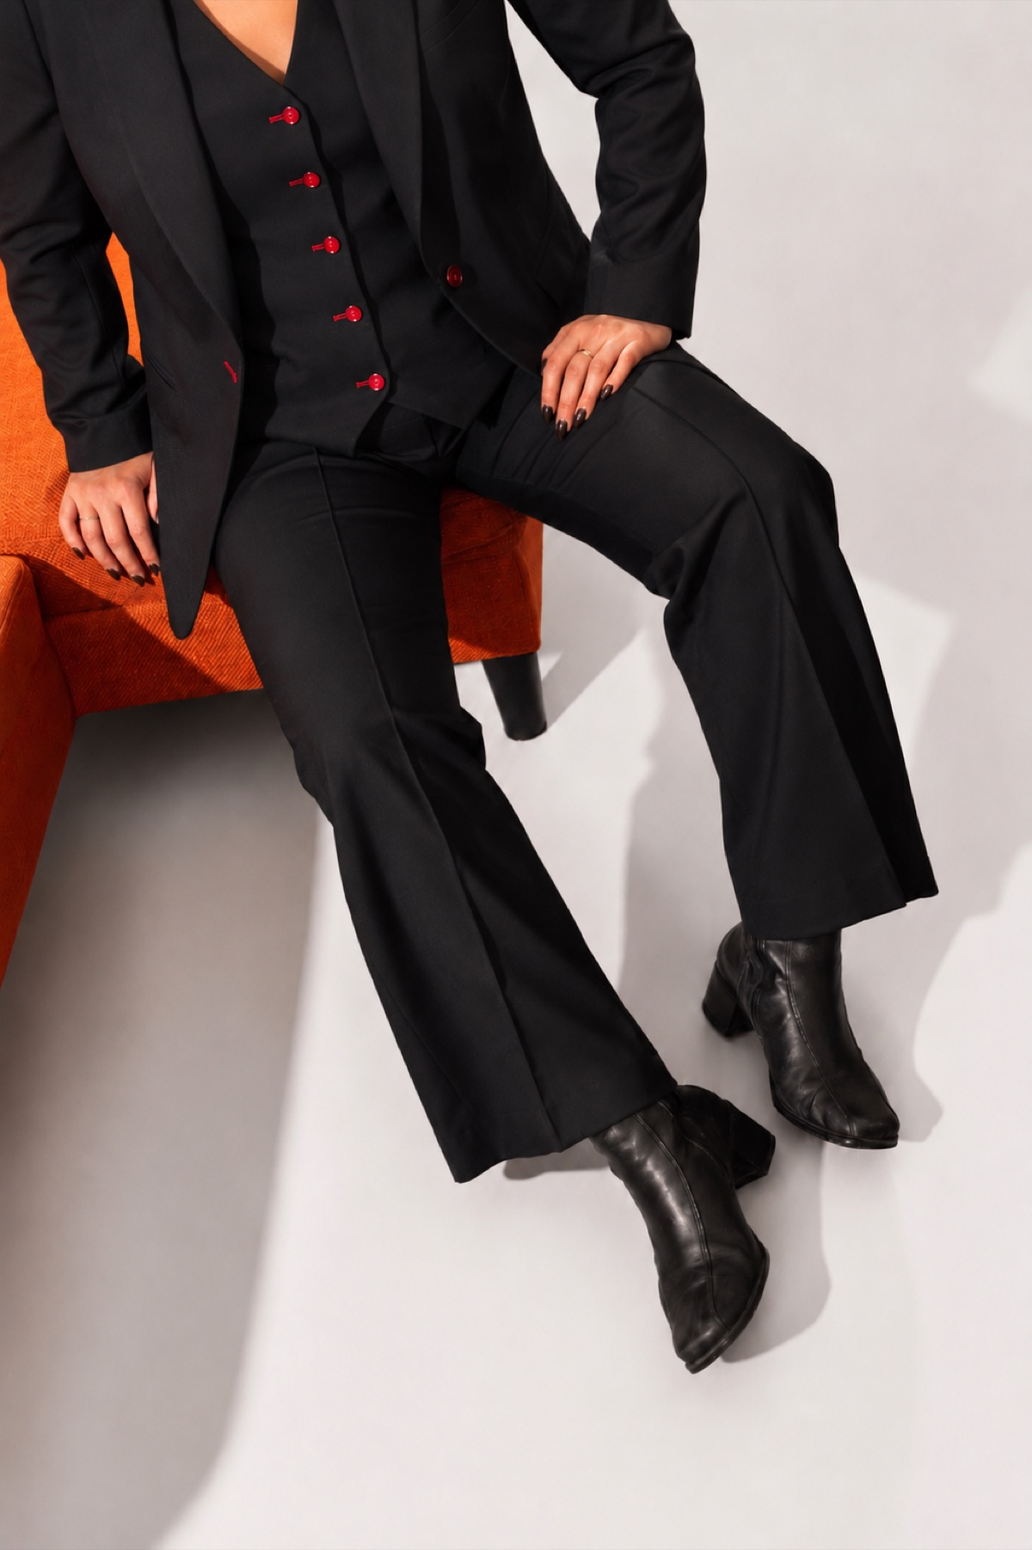
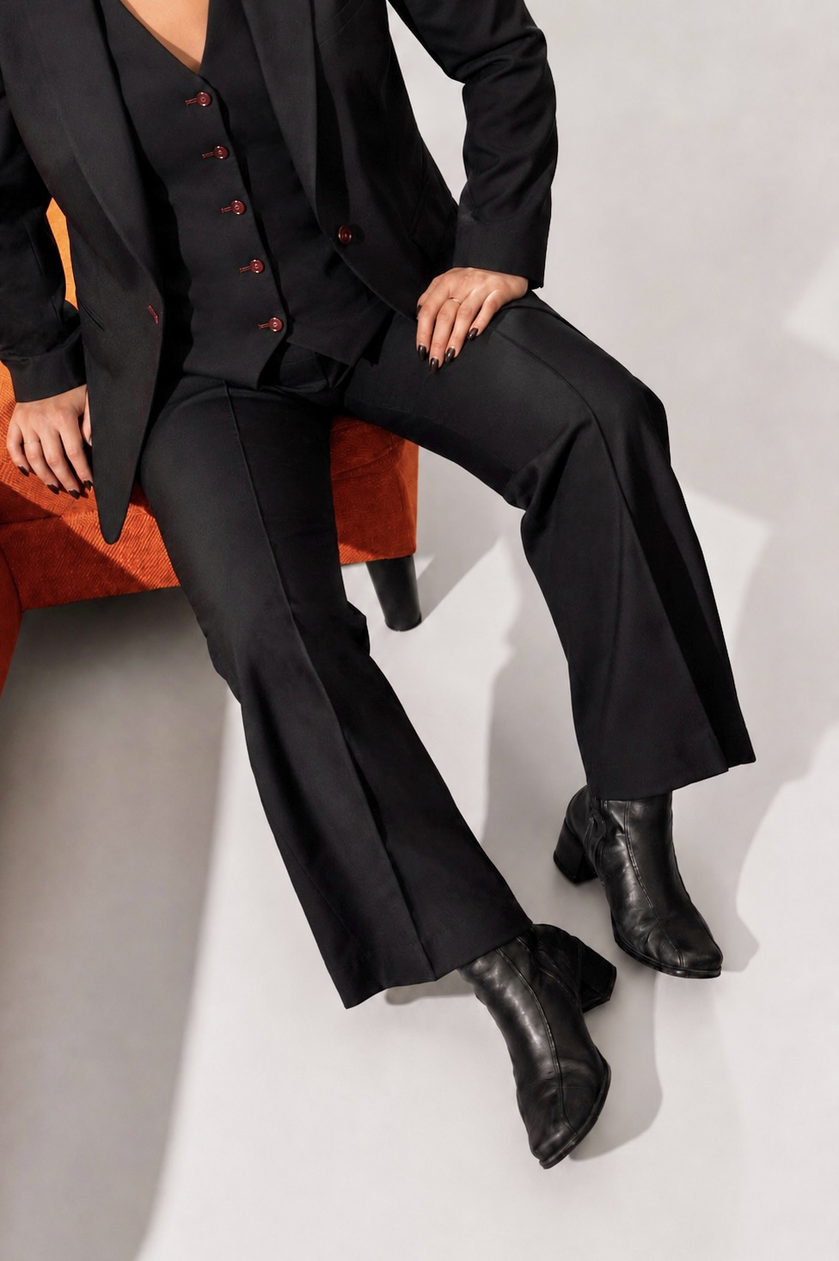
Apply Design export 4: photo band, carousel arrows, collection rewrite
Hand-ported from the Claude Design export (reference prototype — no files
copied across, values lifted into index.html + assets/styles.css).

- New full-bleed mirror band between The Cloth and How It Works, reusing
  the existing mirror.jpg at object-position 42% 45%.
- About carousel: prev/next arrows, 40px swipe threshold, and the reframed
  mirror (64% 15%) and lapel (68% 56%) slides.
- Founding Collection: the export's rewritten hotspot set (9 per style),
  new per-cut copy, new blurbs, Maggie's rounded lapel, and "Tap" for
  "Hover" in the hint.
- Heritage city stepper switches the panel and map in place instead of
  scrolling the window, which was jumping the page to the top.
- Footer Instagram is plain text rather than href="#", which did the same.
- Shorter Craft your suit block: padding-block clamp(4rem,8vw,7rem).
- Mobile-only sticky gold booking bar, riding the header's solid threshold,
  pointing at cal.com and clearing the footer's last line.

Deliberately not taken from the export: its mailto: booking links, the
hardcoded <br> and mid-paragraph \n line breaks, and "Red Gang" for the
Red Band. Restored hero/lapel/mirror/founder-mirror to the optimized
versions after the export's raws had been dropped in uncommitted;
collection-seated.jpg keeps the brightened working-tree version.

diff --git a/index.html b/index.html
@@ -88,7 +88,9 @@
         <img class="adb-about__slide" data-idx="1" src="images/web/collection-seated.jpg" alt="A woman in a navy vest with red buttons seated in a bright studio.">
         <img class="adb-about__slide" data-idx="2" src="images/web/lining.jpg" alt="A hand tucking a card into a jacket's deep-red silk-touch lining.">
         <img class="adb-about__slide adb-about__slide--mirror" data-idx="3" src="images/web/mirror.jpg" alt="Adjusting a cuff before a mirror.">
-        <img class="adb-about__slide" data-idx="4" src="images/web/lapel.jpg" alt="Navy jacket lapel with red working buttonholes over a waistcoat.">
+        <img class="adb-about__slide adb-about__slide--lapel" data-idx="4" src="images/web/lapel.jpg" alt="Navy jacket lapel with red working buttonholes over a waistcoat.">
+        <button type="button" class="adb-about__arrow adb-about__arrow--prev" id="aboutPrev" aria-label="Previous photo"><svg width="13" height="13" viewBox="0 0 24 24" fill="none" stroke="currentColor" stroke-width="1.8" stroke-linecap="round" stroke-linejoin="round" aria-hidden="true"><path d="M15 6l-6 6 6 6"></path></svg></button>
+        <button type="button" class="adb-about__arrow adb-about__arrow--next" id="aboutNext" aria-label="Next photo"><svg width="13" height="13" viewBox="0 0 24 24" fill="none" stroke="currentColor" stroke-width="1.8" stroke-linecap="round" stroke-linejoin="round" aria-hidden="true"><path d="M9 6l6 6-6 6"></path></svg></button>
         <div class="adb-about__dots" id="aboutDots" role="tablist" aria-label="Choose photo"></div>
       </div>
 
@@ -246,7 +248,7 @@ A craft learned where two worlds met.</p>
       <span class="adb-eyebrow adb-eyebrow--brown adb-eyebrow--center"><span class="adb-eyebrow__rule"></span>The Founding Collection<span class="adb-eyebrow__rule"></span></span>
       <h2 class="adb-collection__heading">Modern elegance, traditional craft.</h2>
       <p class="adb-collection__lede">Every detail can be personalized. These house styles are simply our recommendation: the effortless choice for an elegant design.</p>
-      <p class="adb-collection__hint">Hover above any marked point to see what defines each design</p>
+      <p class="adb-collection__hint">Tap any marked point to see what defines each design</p>
     </div>
 
     <!-- house-style tabs, grouped Women / Men -->
@@ -376,6 +378,11 @@ A craft learned where two worlds met.</p>
   </div>
 </section>
 
+<!-- ============ MIRROR BAND (full-bleed) ============ -->
+<div class="adb-band">
+  <img class="adb-band__img" src="images/web/mirror.jpg" alt="A tailored white shirt cuff adjusted before a brass-framed lobby mirror.">
+</div>
+
 <!-- ============ HOW IT WORKS ============ -->
 <section class="adb-how" id="how">
   <div class="adb-container adb-container--narrow">
@@ -434,7 +441,7 @@ A craft learned where two worlds met.</p>
         <ul class="adb-footer__list">
           <li><a href="mailto:bonjour@atelierdubund.com">bonjour@atelierdubund.com</a></li>
           <li><a href="https://atelierdubund.com">atelierdubund.com</a></li>
-          <li><a href="#">Instagram</a></li>
+          <li><span class="adb-footer__soon">Instagram</span></li>
           <li><span class="adb-footer__muted">Français — à venir</span></li>
         </ul>
       </div>
@@ -446,13 +453,22 @@ A craft learned where two worlds met.</p>
   </div>
 </footer>
 
+<!-- ============ MOBILE STICKY BOOK BAR ============ -->
+<a class="adb-mobilecta" id="adbMobileCta" href="https://cal.com/atelierdubund/appointment" target="_blank" rel="noopener noreferrer">Book a Private Appointment</a>
+
 <script>
-  // ---- Header: transparent over the hero, solid oxblood once scrolled past it ----
+  // ---- Header: transparent over the hero, solid oxblood once scrolled past it.
+  //      The mobile book bar rides the same threshold. ----
   (function(){
     const header = document.getElementById('adb-header');
     const hero = document.getElementById('top');
+    const cta = document.getElementById('adbMobileCta');
     if (!header || !hero) return;
-    const onHdr = () => header.classList.toggle('is-solid', window.scrollY > hero.offsetHeight - header.offsetHeight - 8);
+    const onHdr = () => {
+      const solid = window.scrollY > hero.offsetHeight - header.offsetHeight - 8;
+      header.classList.toggle('is-solid', solid);
+      if (cta) cta.classList.toggle('is-visible', solid);
+    };
     onHdr(); addEventListener('scroll', onHdr, {passive:true});
   })();
 
@@ -481,12 +497,14 @@ A craft learned where two worlds met.</p>
     els.forEach(el => io.observe(el));
   })();
 
-  // ---- About carousel (5 photos, 4.2s auto-advance, dot controls) ----
+  // ---- About carousel (5 photos, 4.2s auto-advance, arrows, dots, swipe) ----
   (function(){
     const frame = document.querySelector('.adb-about__frame');
     if (!frame) return;
     const slides = Array.from(frame.querySelectorAll('.adb-about__slide'));
     const dotsWrap = document.getElementById('aboutDots');
+    const prevBtn = document.getElementById('aboutPrev');
+    const nextBtn = document.getElementById('aboutNext');
     const reduce = matchMedia('(prefers-reduced-motion:reduce)').matches;
     let cur = 0, timer = null;
     const dots = slides.map((_, i) => {
@@ -503,6 +521,22 @@ A craft learned where two worlds met.</p>
     const go = (i) => { cur = (i + slides.length) % slides.length; paint(); };
     const restart = () => { if (timer) { clearInterval(timer); tick(); } };
     const tick = () => { if (!reduce) timer = setInterval(() => go(cur + 1), 4200); };
+    const step = (d) => { go(cur + d); restart(); };
+    if (prevBtn) prevBtn.addEventListener('click', () => step(-1));
+    if (nextBtn) nextBtn.addEventListener('click', () => step(1));
+    // swipe (40px threshold, matching the prototype)
+    let swipeX = null;
+    frame.addEventListener('touchstart', (e) => {
+      swipeX = e.touches && e.touches[0] ? e.touches[0].clientX : null;
+    }, {passive:true});
+    frame.addEventListener('touchend', (e) => {
+      if (swipeX === null) return;
+      const t = e.changedTouches && e.changedTouches[0];
+      const dx = t ? t.clientX - swipeX : 0;
+      swipeX = null;
+      if (Math.abs(dx) < 40) return;
+      step(dx < 0 ? 1 : -1);
+    }, {passive:true});
     paint(); tick();
   })();
 
@@ -544,56 +578,69 @@ A craft learned where two worlds met.</p>
     const panelUrls = { green: BASE + 'marble-green.png', oxblood: BASE + 'marble-oxblood.png' };
 
     const styleData = {
-      vincent: { name:'The Vincent', tag:"Men's · Signature", blurb:'Our signature unisex cut — effortless from the desk to a late soirée.', panel:'oxblood',
+      vincent: { name:'The Vincent', tag:"Men's · Signature", blurb:'Our signature unisex cut — effortless from the office to a soirée.', panel:'oxblood',
         front:{ src: BASE + 'vincent-front.png', alt:'The Vincent — navy single-breasted suit, front view.',
           hotspots:[
-            { num:1, title:'Peak lapels', text:'A sharp peak lapel — the most formal, confident line, hand-rolled to stand crisp.', top:'26%', left:'58%' },
-            { num:2, title:'Structured shoulders', text:'A clean, structured shoulder squares the frame and holds its line all day.', top:'18%', left:'39%' },
-            { num:3, title:'Princess seams', text:'Long princess seams shape the jacket through the body for a lean, deliberate waist.', top:'40%', left:'42%' },
-            { num:4, title:'One button', text:'A single button — sharp and classic, closing high for a long, elegant lapel line.', top:'48%', left:'50%' },
+            { num:1, title:'Peak lapel', text:'The sharpest lapel there is. It broadens the shoulder and narrows everything below it.', top:'21%', left:'58%' },
+            { num:2, title:'Shaped through the body', text:'Seams that draw the jacket in at the waist, so it follows the taper of your body instead of boxing it.', top:'27%', left:'52%' },
+            { num:3, title:'Single button', text:'Fastens at the waist, so your jacket opens in a long V that lengthens your silhouette.', top:'36%', left:'49%' },
+            { num:4, title:'Pintuck seam', text:'A narrow fold stitched the length of the leg, front and back, so your trouser holds its line for a structured look.', top:'66%', left:'47%' },
+            { num:5, title:'Straight leg', text:'Cut to flatter more bodies than a slim leg does, especially through the calf and thigh.', top:'78%', left:'47%' },
           ] },
         back:{ src: BASE + 'vincent-back.png', alt:'The Vincent — navy single-breasted suit, back view.',
           hotspots:[
-            { num:5, title:'Pintuck trousers', text:'A pressed pintuck runs the length of the trouser, adding definition and a longer line.', top:'70%', left:'54%' },
-            { num:6, title:'Single vent', text:'A single vent — elegant and clean, with just enough room to move.', top:'50%', left:'52%' },
+            { num:6, title:'Structured shoulder', text:'A defined shoulder line that squares your frame and gives structure to any body shape.', top:'22%', left:'40%' },
+            { num:7, title:'Contrast stitching', text:'Buttonholes and buttons stitched in the colour of your lining. Professional, with personality.', top:'43%', left:'36%' },
+            { num:8, title:'Single vent', text:'One opening at the back, so your jacket moves with you when you sit. A clean line from behind.', top:'47%', left:'50%' },
+            { num:4, title:'Pintuck seam', text:'A narrow fold stitched the length of the leg, front and back, so your trouser holds its line for a structured look.', top:'72%', left:'47%' },
           ] } },
-      maximilian: { name:'The Maximilian', tag:"Men's · Double-breasted", blurb:'A relaxed-fit take on the traditional double-breasted.', panel:'green',
+      maximilian: { name:'The Maximilian', tag:"Men's · Double-breasted", blurb:'The double-breasted, elegance in the traditional way.', panel:'green',
         front:{ src: BASE + 'maximilian-front.png', alt:'The Maximilian — brown double-breasted suit, front view.',
           hotspots:[
-            { num:1, title:'Wide peak lapel', text:'A broad peak lapel — the boldest, most traditional line in the collection.', top:'26%', left:'60%' },
-            { num:2, title:'Relaxed shoulder', text:'A softer, relaxed shoulder — natural and easy rather than sharply built.', top:'18%', left:'39%' },
-            { num:3, title:'Double-breasted front', text:'A six-on-two wrap closes deep and clean for a rich, classic chest.', top:'45%', left:'47%' },
-            { num:4, title:'Full-cut trouser', text:'A relaxed, straight-leg trouser with a full break for a traditional silhouette.', top:'74%', left:'54%' },
+            { num:1, title:'Peak lapel', text:'The sharpest lapel there is. It broadens the shoulder and narrows everything below it.', top:'21%', left:'58%' },
+            { num:2, title:'Straight through the body', text:'Cut to fall straight from chest to hem, for a broader, more architectural line.', top:'27%', left:'52%' },
+            { num:3, title:'Six-on-two', text:'Six buttons, two fastening, the classic double-breasted arrangement.', top:'36%', left:'49%' },
+            { num:4, title:'Pintuck seam', text:'A narrow fold stitched the length of the leg, front and back, so your trouser holds its line for a structured look.', top:'66%', left:'47%' },
+            { num:5, title:'Straight leg', text:'Cut to flatter more bodies than a slim leg does, especially through the calf and thigh.', top:'78%', left:'47%' },
           ] },
         back:{ src: BASE + 'maximilian-back.png', alt:'The Maximilian — brown double-breasted suit, back view.',
           hotspots:[
-            { num:5, title:'Double vent', text:'Twin side vents — room to move and a clean drape over the seat.', top:'50%', left:'49%' },
-            { num:6, title:'Draped back', text:'A clean, gently draped back that skims the body rather than clings.', top:'36%', left:'53%' },
+            { num:6, title:'Structured shoulder', text:'A defined shoulder line that squares your frame and gives structure to any body shape.', top:'22%', left:'40%' },
+            { num:7, title:'Contrast stitching', text:'Buttonholes and buttons stitched in the colour of your lining. Professional, with personality.', top:'43%', left:'36%' },
+            { num:8, title:'Double vent', text:'Two openings rather than one, so the jacket falls cleanly over the hip.', top:'47%', left:'50%' },
+            { num:4, title:'Pintuck seam', text:'A narrow fold stitched the length of the leg, front and back, so your trouser holds its line for a structured look.', top:'72%', left:'47%' },
           ] } },
-      vivienne: { name:'The Vivienne', tag:"Women's · Signature", blurb:'Our signature unisex cut — effortless from the desk to a late soirée.', panel:'oxblood',
+      vivienne: { name:'The Vivienne', tag:"Women's · Signature", blurb:'Our signature unisex cut — effortless from the office to a soirée.', panel:'oxblood',
         front:{ src: BASE + 'vivienne-front.png', alt:'The Vivienne — black peak-lapel suit, front view.',
           hotspots:[
-            { num:1, title:'Peak lapels', text:'Sharp, professional peak lapels — the defining line of the signature suit.', top:'27%', left:'58%' },
-            { num:2, title:'Structured shoulders', text:'Structured shoulders bring definition and sharpness to the figure.', top:'19%', left:'39%' },
-            { num:3, title:'Princess seams', text:'Princess seams draw the jacket in, tying in the waist for a shaped silhouette.', top:'40%', left:'43%' },
-            { num:4, title:'One button', text:'A single button — sharp and classic, for a clean, elongating close.', top:'47%', left:'49%' },
+            { num:1, title:'Peak lapel', text:'The sharpest lapel there is. It broadens the shoulder and narrows everything below it.', top:'21%', left:'58%' },
+            { num:2, title:'Princess seams', text:'Seams that curve over the bust and draw in at the waist, so the jacket cinches for a flattering fit.', top:'27%', left:'52%' },
+            { num:3, title:'Single button', text:'Fastens at the waist, so your jacket opens in a long V that lengthens your silhouette.', top:'36%', left:'49%' },
+            { num:4, title:'Pintuck seam', text:'A narrow fold stitched the length of the leg, front and back, so your trouser holds its line for a structured look.', top:'66%', left:'47%' },
+            { num:5, title:'Straight leg', text:'Cut to flatter more bodies than a slim leg does, especially through the calf and thigh.', top:'78%', left:'47%' },
           ] },
         back:{ src: BASE + 'vivienne-back.png', alt:'The Vivienne — black peak-lapel suit, back view.',
           hotspots:[
-            { num:5, title:'Pintuck trousers', text:'Pintuck detailing on the trouser gives definition and a crisp, tailored line.', top:'70%', left:'54%' },
-            { num:6, title:'Single vent', text:'A single vent — elegant, and gives room to move in the suit.', top:'50%', left:'52%' },
+            { num:6, title:'Structured shoulder', text:'A defined shoulder line that squares your frame and gives structure to any body shape.', top:'22%', left:'40%' },
+            { num:7, title:'Contrast stitching', text:'Buttonholes and buttons stitched in the colour of your lining. Professional, with personality.', top:'43%', left:'36%' },
+            { num:8, title:'Single vent', text:'One opening at the back, so your jacket moves with you when you sit. A clean line from behind.', top:'47%', left:'50%' },
+            { num:4, title:'Pintuck seam', text:'A narrow fold stitched the length of the leg, front and back, so your trouser holds its line for a structured look.', top:'72%', left:'47%' },
           ] } },
-      maggie: { name:'The Maggie', tag:"Women's · Evening", blurb:'Our more feminine evening wear — sharp, dark and cut for the night.', panel:'green',
+      maggie: { name:'The Maggie', tag:"Women's · Evening", blurb:'Our feminine evening wear — romantic, cut for day and night.', panel:'green',
         front:{ src: BASE + 'maggie-front.png', alt:'The Maggie — grey notch-lapel suit, front view.',
           hotspots:[
-            { num:1, title:'Notch lapel', text:'A softly rolled notch lapel — refined and easy, made for the evening.', top:'26%', left:'57%' },
-            { num:2, title:'Nipped waist', text:'Shaping seams nip the waist for a feminine, hourglass line.', top:'44%', left:'44%' },
-            { num:3, title:'Shell buttons', text:'Iridescent shell buttons with a faint pearl sheen — a quiet, luxe detail.', top:'50%', left:'50%' },
+            { num:1, title:'Rounded lapel', text:'The points are curved rather than cut sharp, for a softer line that carries into the evening.', top:'21%', left:'58%' },
+            { num:2, title:'Princess seams', text:'Seams that curve over the bust and draw in at the waist, so the jacket cinches for a flattering fit.', top:'27%', left:'52%' },
+            { num:3, title:'Two buttons', text:'Fastened higher, lifting your waistline and lengthening your legs.', top:'36%', left:'49%' },
+            { num:4, title:'Pintuck seam', text:'A narrow fold stitched the length of the leg, front and back, so your trouser holds its line for a structured look.', top:'66%', left:'47%' },
+            { num:5, title:'Straight leg', text:'Cut to flatter more bodies than a slim leg does, especially through the calf and thigh.', top:'78%', left:'47%' },
           ] },
         back:{ src: BASE + 'maggie-back.png', alt:'The Maggie — grey notch-lapel suit, back view.',
           hotspots:[
-            { num:4, title:'Puffed shoulder', text:'A lightly gathered, puffed shoulder — a soft, romantic volume set by hand.', top:'20%', left:'44%' },
-            { num:5, title:'Flared trouser', text:'A gently flared trouser that lengthens the leg and moves as you do.', top:'74%', left:'52%' },
+            { num:6, title:'Puffed shoulder', text:'A soft rise at the shoulder, romantic without losing the line of a suit.', top:'22%', left:'40%' },
+            { num:7, title:'Contrast stitching', text:'Buttonholes and buttons stitched in the colour of your lining. Professional, with personality.', top:'43%', left:'36%' },
+            { num:8, title:'Single vent', text:'One opening at the back, so your jacket moves with you when you sit. A clean line from behind.', top:'47%', left:'50%' },
+            { num:4, title:'Pintuck seam', text:'A narrow fold stitched the length of the leg, front and back, so your trouser holds its line for a structured look.', top:'72%', left:'47%' },
           ] } },
     };
 
@@ -792,15 +839,9 @@ A craft learned where two worlds met.</p>
 
     if (!reduce) setInterval(() => { tick++; paintCarousel(); }, 5000);
 
-    // stepper + clickable map dots scroll the window to that step's slice of the track
-    const goStep = (i) => {
-      const trackTop = track.getBoundingClientRect().top + window.scrollY;
-      const total = track.offsetHeight - window.innerHeight;
-      const y = trackTop + ((i + 0.5) / N) * total;
-      scrollTo({ top: y, behavior: reduce ? 'auto' : 'smooth' });
-    };
+    // stepper + clickable map dots switch the panel and map in place — no page scroll
     section.querySelectorAll('[data-go]').forEach(btn => {
-      btn.addEventListener('click', () => goStep(+btn.dataset.go));
+      btn.addEventListener('click', () => setStep(+btn.dataset.go));
     });
   })();
 </script>

diff --git a/assets/styles.css b/assets/styles.css
@@ -702,10 +702,15 @@ h3{font-size:clamp(1.4rem,2.6vw,1.9rem)}
 /* ---------- About ---------- */
 .adb-about{background:linear-gradient(180deg,#faf7f1,#f2ece0);color:#2b2620;padding-block:clamp(5rem,11vw,9rem);overflow:hidden}
 .adb-about__grid{display:grid;grid-template-columns:1.02fr .98fr;gap:clamp(2.5rem,6vw,5.5rem);align-items:stretch}
-.adb-about__frame{position:relative;min-height:clamp(26rem,46vw,40rem);overflow:hidden;box-shadow:0 50px 90px -44px rgba(40,20,14,.55);background:#e6ddcb}
+.adb-about__frame{position:relative;min-height:clamp(26rem,46vw,40rem);overflow:hidden;box-shadow:0 50px 90px -44px rgba(40,20,14,.55);background:#e6ddcb;touch-action:pan-y}
 .adb-about__slide{position:absolute;inset:0;width:100%;height:100%;object-fit:cover;opacity:0;transform:scale(1);transition:opacity 1.1s ease,transform 6s ease}
 .adb-about__slide.is-active{opacity:1;transform:scale(1.06)}
-.adb-about__slide--mirror{object-position:32% center}
+.adb-about__slide--mirror{object-position:64% 15%}
+.adb-about__slide--lapel{object-position:68% 56%}
+.adb-about__arrow{position:absolute;top:50%;transform:translateY(-50%);z-index:2;width:34px;height:34px;display:grid;place-items:center;border-radius:999px;border:1px solid rgba(200,162,75,.5);background:rgba(20,13,12,.28);color:#e0c48a;cursor:pointer;transition:background .3s ease,border-color .3s ease}
+.adb-about__arrow:hover{background:rgba(20,13,12,.5);border-color:#c8a24b}
+.adb-about__arrow--prev{left:.55rem}
+.adb-about__arrow--next{right:.55rem}
 .adb-about__dots{position:absolute;left:1.4rem;bottom:1.4rem;display:flex;gap:.5rem;z-index:2}
 .adb-about__dot{width:10px;height:6px;border-radius:999px;border:0;cursor:pointer;padding:0;background:rgba(40,28,16,.28);transition:all .4s ease}
 .adb-about__dot.is-active{width:26px;background:#8a5e28}
@@ -801,6 +806,10 @@ h3{font-size:clamp(1.4rem,2.6vw,1.9rem)}
 .adb-cloth__spec{margin-top:clamp(2.25rem,4vw,3rem);padding-top:clamp(1.35rem,2.5vw,1.85rem);border-top:1px solid rgba(200,162,75,.16);display:grid;gap:.75rem}
 .adb-cloth__spec p{font-family:'Jost',sans-serif;font-size:.7rem;letter-spacing:.18em;text-transform:uppercase;color:#9a8f7c;line-height:1.75}
 
+/* ---------- Mirror band (full-bleed, between The Cloth and How it works) ---------- */
+.adb-band{width:100%;line-height:0;background:#140b0d}
+.adb-band__img{display:block;width:100%;height:clamp(460px,72vw,72vh);object-fit:cover;object-position:42% 45%}
+
 /* ---------- How it works ---------- */
 .adb-how{background:linear-gradient(180deg,#22392f,#182a23);color:#ece3d2;padding-block:clamp(4.5rem,10vw,8rem)}
 .adb-how__head{text-align:center;margin-bottom:clamp(2.5rem,5vw,3.5rem)}
@@ -813,7 +822,7 @@ h3{font-size:clamp(1.4rem,2.6vw,1.9rem)}
 .adb-how__text{font-size:.9rem;color:#b9ad97}
 
 /* ---------- Reserve / CTA ---------- */
-.adb-reserve{position:relative;isolation:isolate;padding-block:clamp(6rem,15vw,11rem);overflow:hidden}
+.adb-reserve{position:relative;isolation:isolate;padding-block:clamp(4rem,8vw,7rem);overflow:hidden}
 .adb-reserve__img{position:absolute;inset:0;z-index:-2;width:100%;height:100%;object-fit:cover;object-position:center;filter:brightness(1.05) contrast(1.03) saturate(1.05)}
 .adb-reserve__scrim{position:absolute;inset:0;z-index:-1;background:linear-gradient(90deg,rgba(247,242,232,.99) 0%,rgba(247,242,232,.96) 34%,rgba(247,242,232,.84) 50%,rgba(247,242,232,.38) 68%,transparent 86%)}
 .adb-reserve__inner{max-width:40rem}
@@ -840,8 +849,27 @@ h3{font-size:clamp(1.4rem,2.6vw,1.9rem)}
 .adb-footer__list a{color:#a89c86}
 .adb-footer__list a:hover{color:#faf7f1}
 .adb-footer__muted{color:#8d8474}
+.adb-footer__soon{color:#a89c86}
 .adb-footer__base{display:flex;justify-content:space-between;flex-wrap:wrap;gap:1rem;margin-top:3.5rem;padding-top:1.6rem;border-top:1px solid rgba(200,162,75,.14);font-size:.76rem;color:#8d8474}
 .adb-footer__tagline{font-family:'Cormorant Garamond',serif;font-style:italic;font-size:.95rem;color:#a89c86}
+
+/* ---------- Mobile sticky book bar (phone/tablet only) ---------- */
+/* Hidden outright on desktop; fades in on the same threshold that turns the header solid. */
+.adb-mobilecta{display:none}
+@media (max-width:860px){
+  .adb-mobilecta{display:flex;position:fixed;left:0;right:0;bottom:0;z-index:90;
+    align-items:center;justify-content:center;gap:.5em;
+    opacity:0;pointer-events:none;transition:opacity .5s ease;
+    background:#c8a24b;border-top:1px solid #d9b877;box-shadow:0 -14px 34px -22px rgba(0,0,0,.7);
+    font-family:'Jost',sans-serif;font-size:.76rem;font-weight:500;text-transform:uppercase;
+    letter-spacing:.2em;color:#1a0e10;
+    padding:1.05em 1.2em;padding-bottom:calc(1.05em + env(safe-area-inset-bottom))}
+  .adb-mobilecta.is-visible{opacity:1;pointer-events:auto}
+  /* beat the global a:hover, which would otherwise put gold text on the gold bar */
+  .adb-mobilecta:hover,.adb-mobilecta:focus{color:#1a0e10}
+  /* clear the bar so it never sits on top of the footer's last line */
+  .adb-footer{padding-bottom:calc(2.5rem + 3.4em + env(safe-area-inset-bottom))}
+}
 
 /* ---------- Home responsive ---------- */
 @media (max-width:920px){
